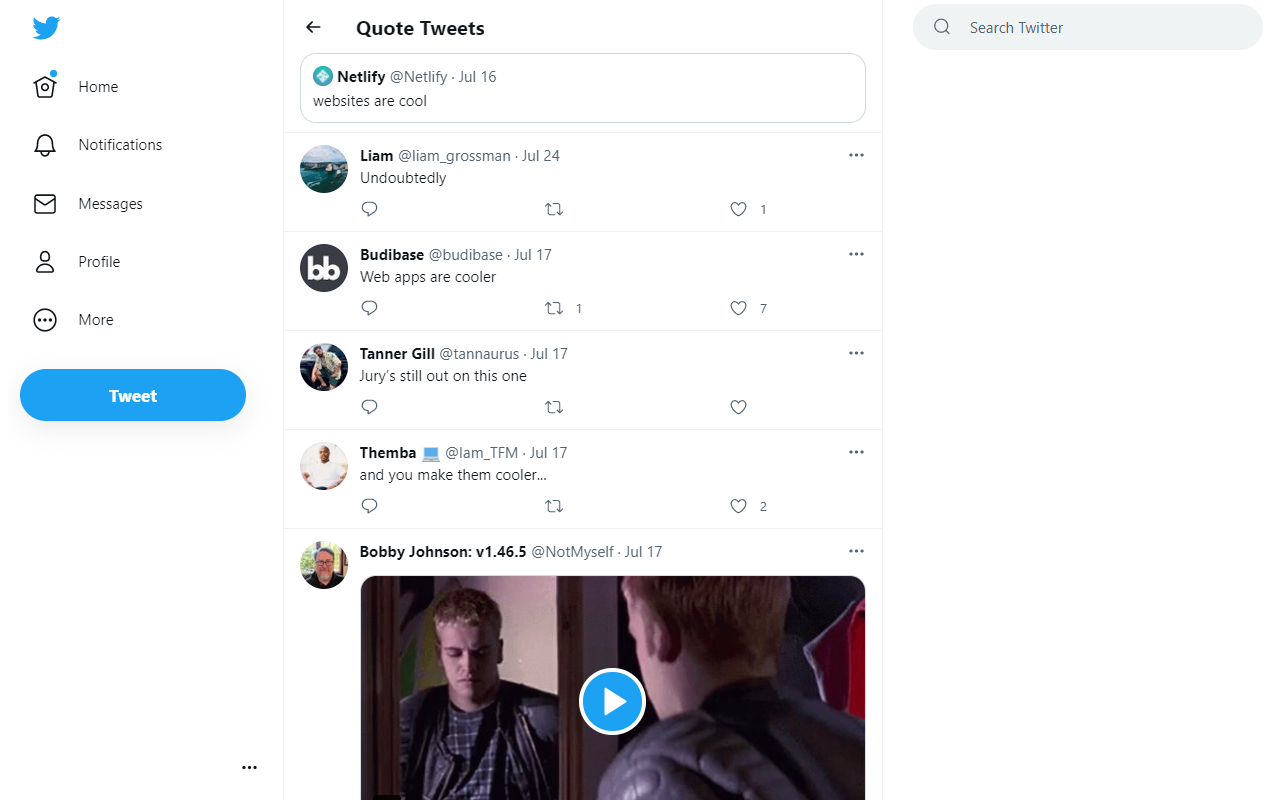
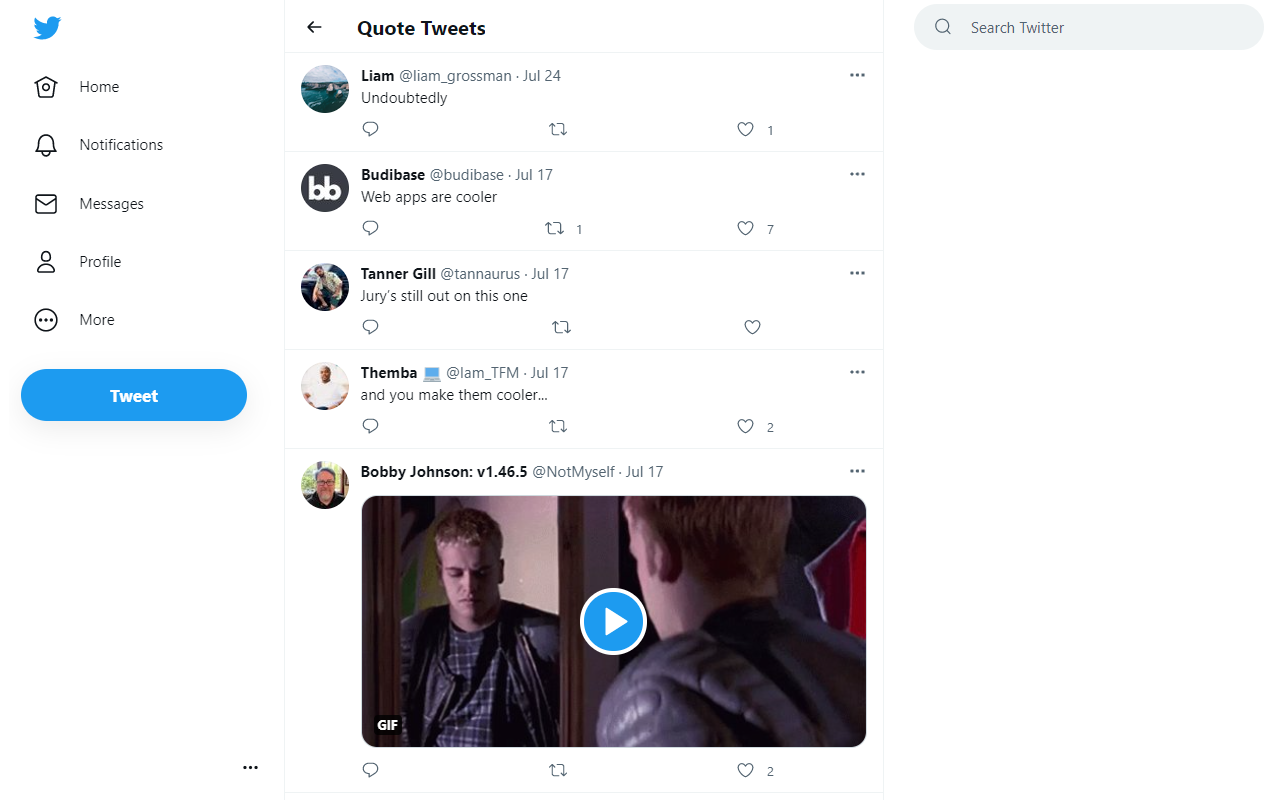
Remove pinning the quoted tweet on desktop - recent Twitter style changes broke this and made it harder to implement

diff --git a/tweak-new-twitter.user.js b/tweak-new-twitter.user.js
@@ -1646,9 +1646,6 @@ const configureCss = (() => {
       if (config.retweets != 'separate' && config.quoteTweets != 'separate') {
         hideCssSelectors.push('#tnt_separated_tweets')
       }
-      if (!config.tweakQuoteTweetsPage) {
-        hideCssSelectors.push('#tnt_pinned_quoted_tweet')
-      }
     }
 
     if (mobile) {
@@ -2406,10 +2403,6 @@ function processCurrentPage() {
     tweakIndividualTweetPage()
   }
 
-  if (config.tweakQuoteTweetsPage && isOnQuoteTweetsPage()) {
-    tweakQuoteTweetsPage()
-  }
-
   if (mobile && config.hideExplorePageContents && isOnExplorePage()) {
     tweakExplorePage(currentPage)
   }
@@ -2561,48 +2554,6 @@ async function tweakIndividualTweetPage() {
 function tweakProfilePage(currentPage) {
   observeProfileBlockedStatus(currentPage)
   observeProfileSidebar(currentPage)
-}
-
-async function tweakQuoteTweetsPage() {
-  if (desktop) {
-    // Show the quoted tweet once in the pinned header instead
-    let [$heading, $quotedTweet] = await Promise.all([
-      getElement(`${Selectors.PRIMARY_COLUMN} ${Selectors.TIMELINE_HEADING}`, {
-        name: 'Quote Tweets heading',
-        stopIf: not(isOnQuoteTweetsPage)
-      }),
-      getElement('[data-testid="tweet"] [aria-labelledby] > div:last-child', {
-        name: 'first quoted tweet',
-        stopIf: not(isOnQuoteTweetsPage)
-      })
-    ])
-
-    if ($heading != null && $quotedTweet != null) {
-      if (document.querySelector('#tnt_pinned_quoted_tweet')) {
-        log('pinned quoted tweet already present')
-        return
-      }
-
-      log('pinning quoted tweet in the Quote Tweets header')
-      do {
-        $heading = $heading.parentElement
-      } while (!$heading.nextElementSibling)
-
-      let $clone = /** @type {HTMLElement} */ ($quotedTweet.cloneNode(true))
-      $clone.id = 'tnt_pinned_quoted_tweet'
-      $clone.style.margin = '0 16px 9px 16px'
-      // Media doesn't work when we clone it, so just remove it to save space
-      let $media = $clone.querySelector('div[role="link"] > div > div:nth-of-type(3)')
-      $media?.remove()
-      // Clicking on the clone doesn't work either, so click a real quoted tweet
-      $clone.addEventListener('click', () => {
-        /** @type {HTMLElement} */ (
-          document.querySelector('[data-testid="tweet"] [aria-labelledby] > div:last-child [role="link"]')
-        )?.click()
-      })
-      $heading.insertAdjacentElement('afterend', $clone)
-    }
-  }
 }
 //#endregion
 

diff --git a/options.html b/options.html
@@ -182,8 +182,7 @@
       </section>
       <section class="checkbox">
         <label>
-          <span class="desktop">Pin the quoted tweet when viewing Quote Tweets</span>
-          <span class="mobile">Hide the quoted tweet when viewing Quote Tweets</span>
+          Hide the quoted tweet when viewing Quote Tweets
           <input type="checkbox" name="tweakQuoteTweetsPage">
         </label>
       </section>

diff --git a/README.md b/README.md
@@ -61,7 +61,7 @@ If you open [mobile.twitter.com](https://mobile.twitter.com) and use the "Instal
 - Use the site's normal text font style in the primary navigation menu on desktop to make it less distracting
 - Fast blocking - skips the confirm dialog when you try to block an account
 - Add a new item to the "More" menu (desktop) or slide-out menu (mobile) which takes you straight to the "Add muted word" page
-- When viewing a tweet's Quote Tweets, pin the quoted tweet (desktop) or hide duplication of it in every tweet (mobile)
+- When viewing a tweet's Quote Tweets, hide the quoted tweet to make more room for quotes
 - Hide "Open app", "Switch to the app" etc. nags on mobile
 
 ### Hide UI items you don't use
@@ -118,9 +118,9 @@ Optional features you can try, to see how they change how you perceive and use T
 
 ### Improved Quote Tweets page
 
-| Desktop - quoted tweet pinned to header, duplicates under each tweet are hidden | Mobile - duplicate quoted tweet hidden, leaving more room for quotes  |
+| Desktop - duplicate quoted tweet hidden, leaving more room for quotes | Mobile - duplicate quoted tweet hidden, leaving more room for quotes  |
 | - | - |
-| ![Screenshot of the improvements Tweak New Twitter makes to Quote Tweet pages on desktop, pinning the quoted tweet in the header instead of repeating it in every tweet](screenshots/quote_tweets.png) | ![Screenshot of the improvements Tweak New Twitter makes to Quote Tweet pages on mobile, showing quote content only instead of repeating the quoted tweet in every tweet](screenshots/firefox_android_quote_tweets.jpg) |
+| ![Screenshot of the improvements Tweak New Twitter makes to Quote Tweet pages on desktop, showing quote content only instead of repeating the quoted tweet in every tweet](screenshots/quote_tweets.png) | ![Screenshot of the improvements Tweak New Twitter makes to Quote Tweet pages on mobile, showing quote content only instead of repeating the quoted tweet in every tweet](screenshots/firefox_android_quote_tweets.jpg) |
 
 ### Experimental features
 
